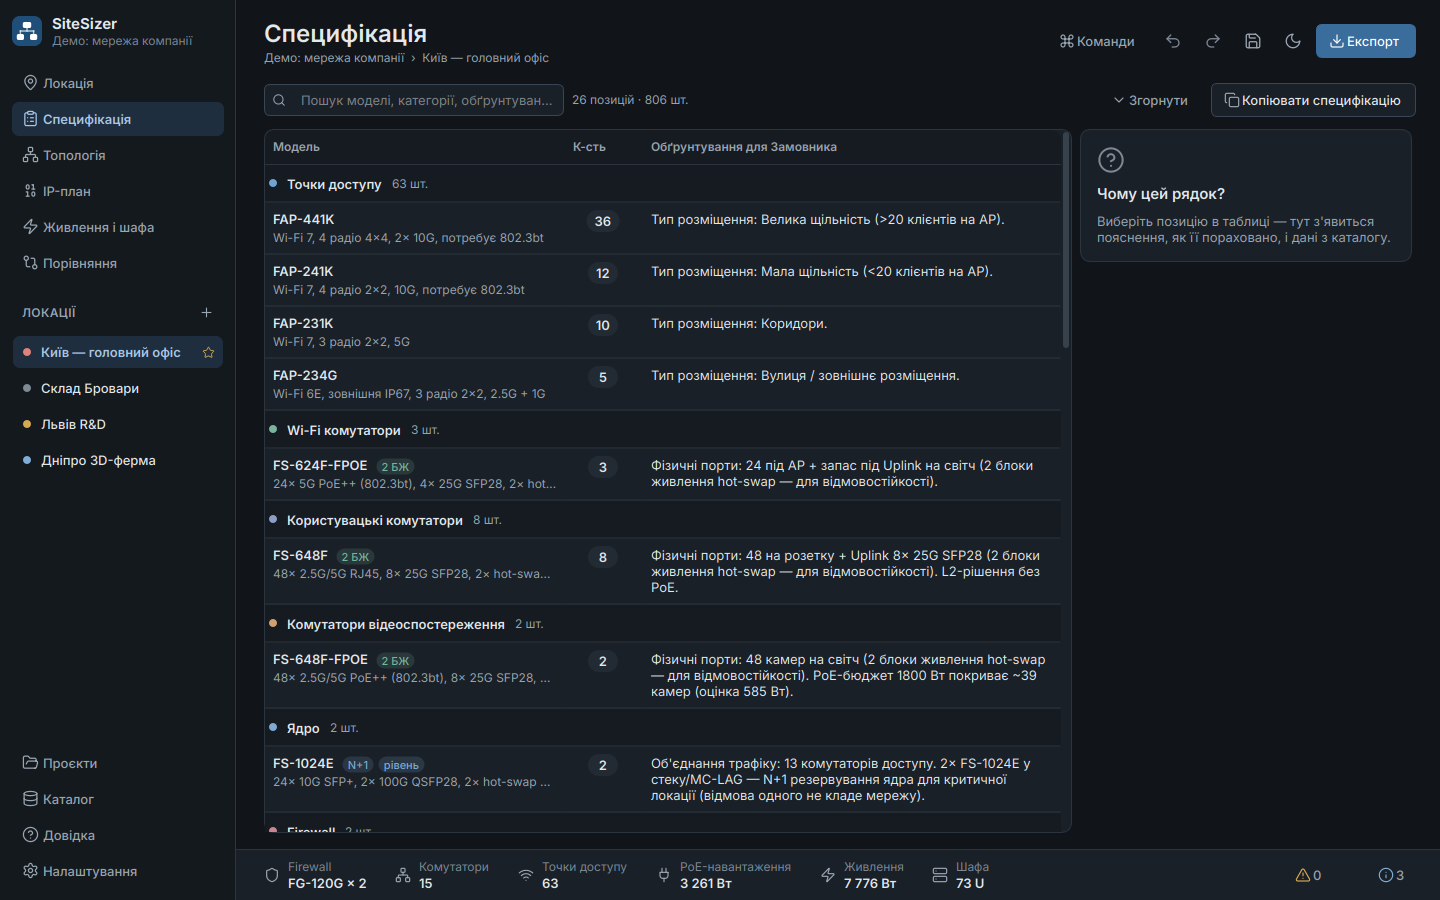
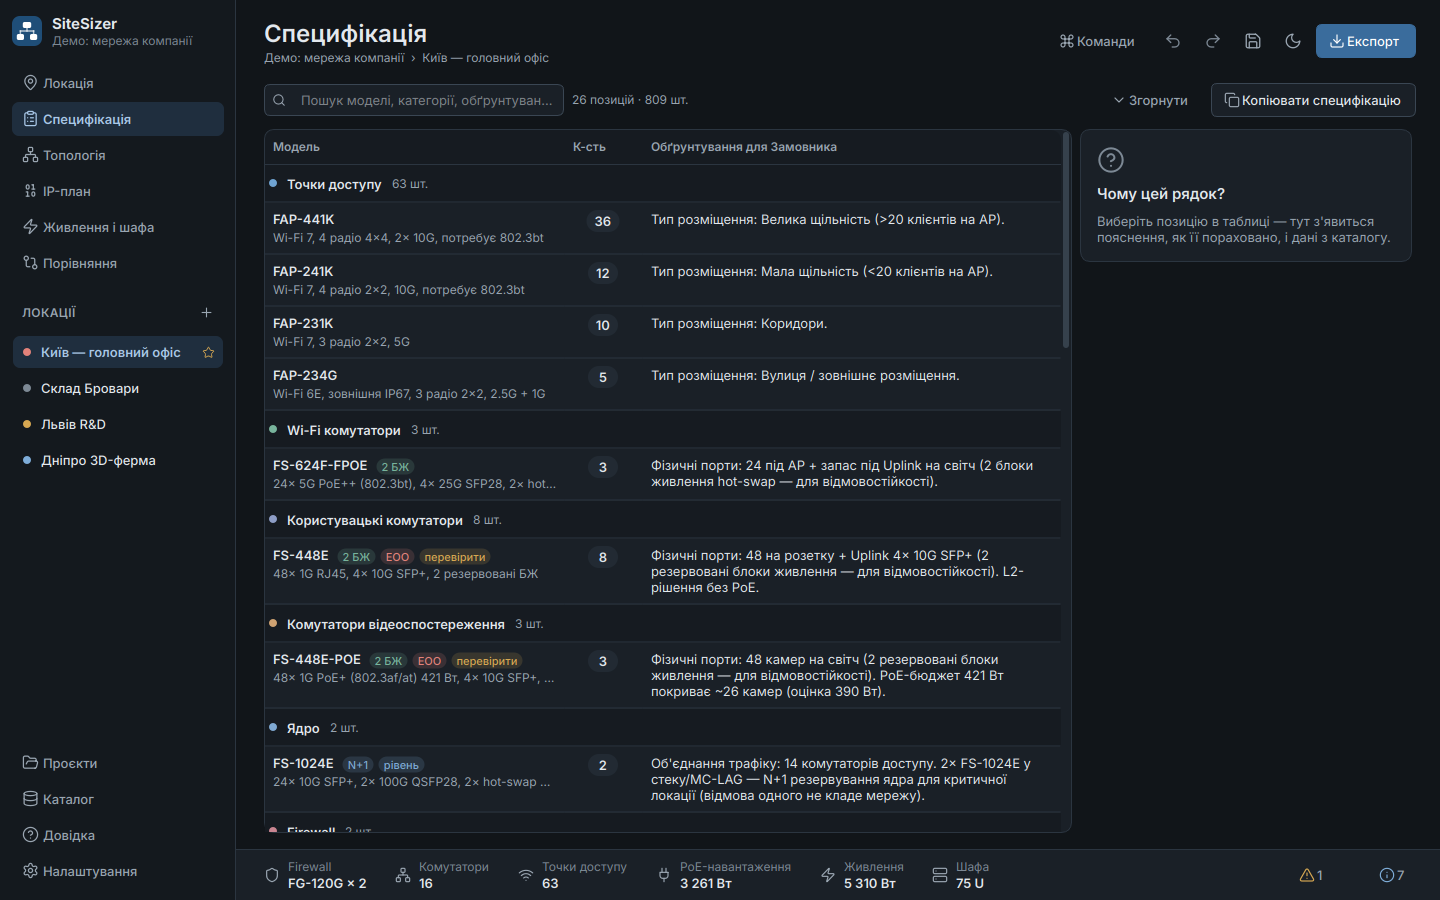
Use FS-448E / FS-448E-POE as the dual-PSU models (engineer's choice)
FS-648F family stays in the catalog as an alternative. End-of-Order status
is now an info note instead of a warning. New test covers the 421 W PoE
budget of FS-448E-POE adding camera switches.

diff --git a/tests/test_engine.py b/tests/test_engine.py
@@ -67,8 +67,8 @@ def test_wifi_switch_count(catalog: Catalog, aps: int, expected: int) -> None:
 # ---- variant selection ----------------------------------------------------------------------
 def test_dual_psu_variant_when_confirmed(catalog: Catalog) -> None:
     r = size_site(make_site(sockets=10, cameras=5, aps=[("corridor", 2)], redundant_psu=True), catalog)
-    assert r.categories["access_switch"].model == "FS-648F"
-    assert r.categories["camera_switch"].model == "FS-648F-FPOE"
+    assert r.categories["access_switch"].model == "FS-448E"
+    assert r.categories["camera_switch"].model == "FS-448E-POE"
     assert r.categories["wifi_switch"].model == "FS-624F-FPOE"
     assert "PSU_CONFIRM" not in codes(r)
 
@@ -76,7 +76,7 @@ def test_dual_psu_variant_when_confirmed(catalog: Catalog) -> None:
 def test_tier_suggests_dual_psu_and_asks_for_confirmation(catalog: Catalog) -> None:
     r = size_site(make_site(sockets=10, tier=2), catalog)
     assert r.dual_psu and not r.dual_psu_confirmed
-    assert r.categories["access_switch"].model == "FS-648F"
+    assert r.categories["access_switch"].model == "FS-448E"
     confirm = [c for c in r.checks if c.code == "PSU_CONFIRM"]
     assert confirm and confirm[0].action == "confirm_psu"
 
@@ -101,7 +101,7 @@ def test_quantity_threshold_mode(compat_catalog: Catalog, count_sockets: int, mo
 
 def test_variant_threshold_is_editable(catalog: Catalog) -> None:
     cat = catalog_with_overrides(catalog, {"rules": {"variant_mode": "quantity", "variant_quantity_threshold": 2}})
-    assert size_site(make_site(sockets=96), cat).categories["access_switch"].model == "FS-648F"
+    assert size_site(make_site(sockets=96), cat).categories["access_switch"].model == "FS-448E"
     assert size_site(make_site(sockets=48), cat).categories["access_switch"].model == "FS-148F"
 
 
@@ -320,3 +320,13 @@ def test_extended_ip_plan_present(catalog: Catalog) -> None:
     r = size_site(make_site(mode="extended", sockets=50), catalog)
     assert r.ip_plan is not None and r.ip_plan.segments[0].id == "data"
     assert size_site(make_site(sockets=50), catalog).ip_plan is None
+
+
+def test_448e_poe_budget_autoscale(catalog: Catalog) -> None:
+    # FS-448E-POE has only 421 W: 48 cameras × 15 W = 720 W → 2 switches
+    r = size_site(make_site(cameras=48, redundant_psu=True), catalog)
+    cam = r.categories["camera_switch"]
+    assert (cam.model, cam.count) == ("FS-448E-POE", 2)
+    assert "POE_AUTOSCALE" in codes(r)
+    eoo = [c for c in r.checks if c.code == "EOO"]
+    assert eoo and all(c.severity == Severity.INFO for c in eoo)

diff --git a/sitesizer/core/sizing.py b/sitesizer/core/sizing.py
@@ -1171,7 +1171,7 @@ def _general_checks(ctx: _Ctx, bom: list[BomLine], rack: RackSummary) -> None:
         seen.add(line.model)
         if dev.lifecycle != "active":
             line.tags.append("eoo")
-            ctx.check(Severity.WARNING, "EOO", "check.eoo", "check.eoo_hint", line.group, model=line.model)
+            ctx.check(Severity.INFO, "EOO", "check.eoo", "check.eoo_hint", line.group, model=line.model)
         if dev.verified == "third_party" and dev.kind in ("switch", "firewall", "ap"):
             third_party.append(line.model)
             line.tags.append("unverified")

diff --git a/sitesizer/core/catalog.py b/sitesizer/core/catalog.py
@@ -392,10 +392,6 @@ PROTOTYPE_COMPAT_OVERRIDES: dict[str, Any] = {
         "poe_autoscale": False,
         "core_port_check": False,
     },
-    "categories": {
-        "access_switch": {"premium": "FS-448E"},
-        "camera_switch": {"premium": "FS-448E-POE"},
-    },
     "models": {
         "FG-80F": {"firewall": {"max_switches": 16}},
         "FG-120G": {"firewall": {"max_switches": 32, "max_switches_fortios": []}},

diff --git a/docs/RESEARCH.md b/docs/RESEARCH.md
@@ -132,11 +132,11 @@ used by the golden tests.
 
 | Topic | Decision |
 |---|---|
-| FS-448E / FS-448E-POE (End-of-Order) | The engineer asked for "448F", which doesn't exist in the Fortinet ordering guide. The closest 48-port dual-PSU successors in the current guide are **FS-648F** (access) and **FS-648F-FPOE** (CCTV); these are the new premium models. FS-448E entries stay in the catalog flagged `eoo`. |
+| FS-448E / FS-448E-POE (End-of-Order per third-party sites) | **Kept** as the premium (dual-PSU) access and CCTV models, as on the whiteboard (the earlier "448F" was a typo for 448E). The EOO status is shown as an info note, not a warning. FS-648F / FS-648F-FPOE remain in the catalog as alternatives. FS-448E-POE PoE is only 421 W; the engine adds camera switches when the budget is exceeded. |
 | 802.3bt shortage on FS-124G-FPOE | **Auto-upgrade** to FS-624F-FPOE (rule `bt_auto_upgrade`), explained in the BoM line and tagged "auto". |
 | Currency | UAH, optional VAT and discount; prices empty by default (price columns hidden). |
 | FortiOS version | Per-location input (default 7.6.4); FG-120G's 32/48 limit follows it. |
-| PoE redundancy caveat (new finding) | FS-624F-FPOE and FS-648F-FPOE have only **780 W PoE with one working PSU**. When the load per switch exceeds that, an info check warns that a PSU failure would drop some devices. |
+| PoE redundancy caveat (new finding) | FS-624F-FPOE (and the alternative FS-648F-FPOE) have only **780 W PoE with one working PSU**. When the load per switch exceeds that, an info check warns that a PSU failure would drop some devices. |
 
 ---
 

diff --git a/README.md b/README.md
@@ -107,7 +107,7 @@ User data (catalog edits, settings, logs) lives in `%APPDATA%\SiteSizer\SiteSize
 | Question | Decision |
 |---|---|
 | Whiteboard "25х / 15х" | **2 PSU / 1 PSU.** Premium (dual hot-swap PSU) models are recommended for tiers 1–2, and the app asks you to confirm. The old quantity threshold is still available (`variant_mode: quantity`). |
-| FS-448E (End-of-Order 2026-09-13) | Replaced with **FS-648F / FS-648F-FPOE** ("448F" doesn't exist; this is the closest 48-port dual-PSU family). FS-448E remains in the catalog, flagged EOO. |
+| FS-448E family | **Kept as the dual-PSU models**: FS-448E (access) and FS-448E-POE (CCTV), as on the whiteboard. Third-party sources list them as End-of-Order 2026-09-13, so the app shows an info note to check availability; FS-648F / FS-648F-FPOE are in the catalog as alternatives. FS-448E-POE has only 421 W of PoE (~28 cameras at 15 W), so extra camera switches are added automatically when needed. |
 | Not enough 802.3bt ports on FS-124G-FPOE | **Automatic upgrade** to FS-624F-FPOE, explained in the BoM line. |
 | Currency | **UAH**; VAT and discount are optional. Prices are empty by default, so the price columns stay hidden. |
 | FortiOS version | **Per-location input** (FG-120G manages 48 switches on FortiOS 7.6.1+, 32 on older versions). |

diff --git a/docs/CATALOG.md b/docs/CATALOG.md
@@ -49,8 +49,8 @@ catalog in the meantime.
   },
   "categories": {                          // which models serve each switch role
     "wifi_switch":   {"base": "FS-124G-FPOE", "premium": "FS-624F-FPOE", "endpoints_per_switch": 24},
-    "access_switch": {"base": "FS-148F",      "premium": "FS-648F",      "endpoints_per_switch": 48},
-    "camera_switch": {"base": "FS-148F-FPOE", "premium": "FS-648F-FPOE", "endpoints_per_switch": 48},
+    "access_switch": {"base": "FS-148F",      "premium": "FS-448E",      "endpoints_per_switch": 48},
+    "camera_switch": {"base": "FS-148F-FPOE", "premium": "FS-448E-POE",  "endpoints_per_switch": 48},
     "core_switch":   {"base": "FS-1024E",     "premium": "FS-1024E",     "endpoints_per_switch": 24}
   },
   "firewall_ladder": ["FG-80F", "FG-120G", "FG-200G", "FG-400G"],
